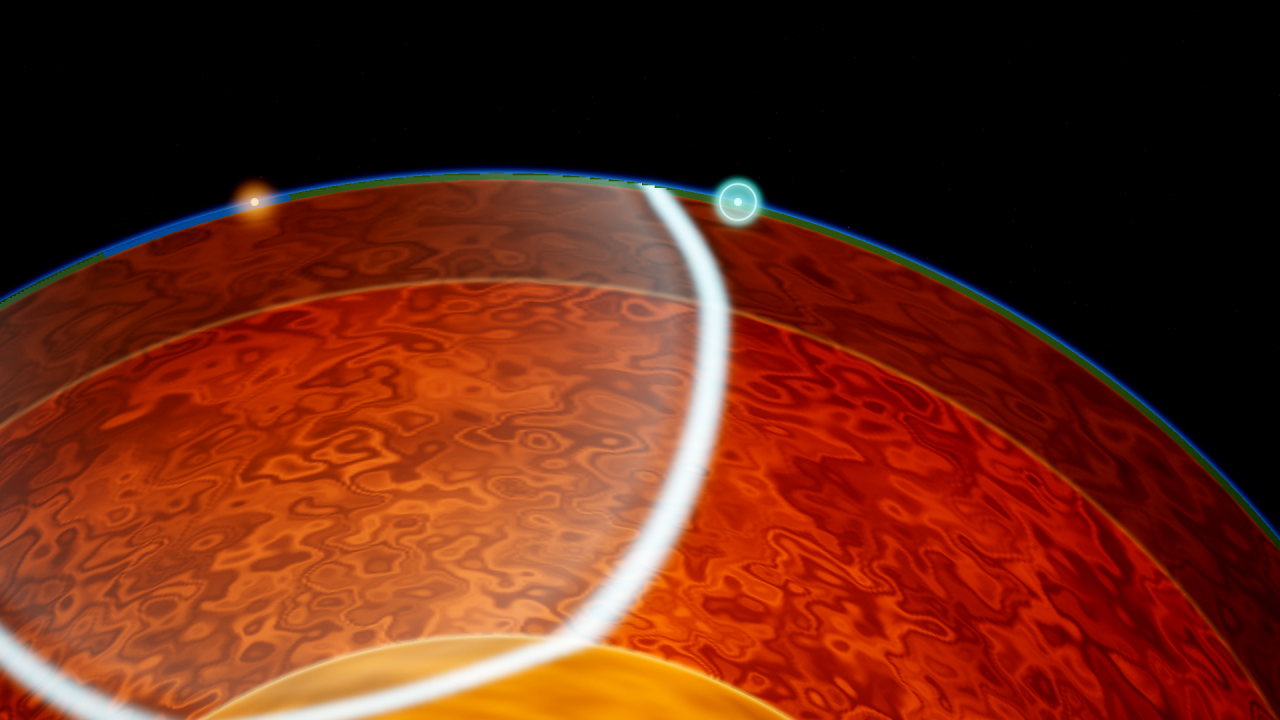
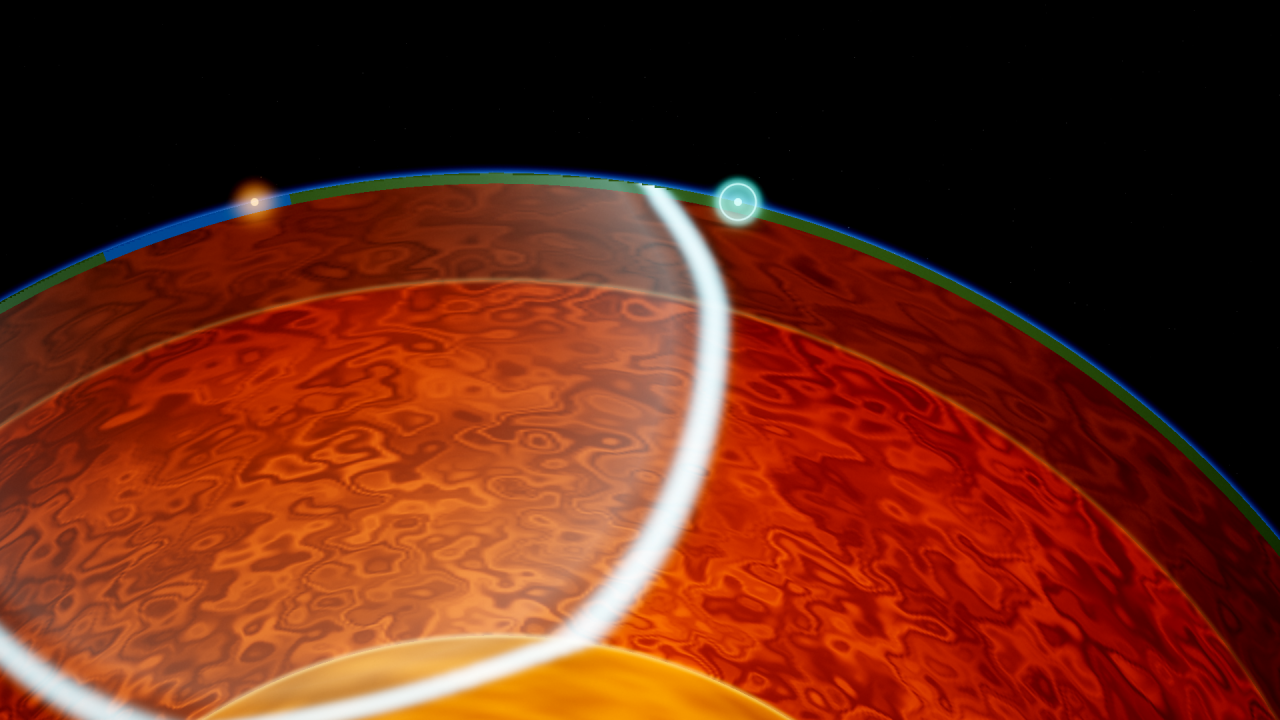
Ep4 thumbnail: true-to-life slit mouth, whole fish in frame; finalize always rebuilds thumbnails
Claude-Session: https://claude.ai/code/session_01M1AiBPig1Bj2yLTmEPiA7A

diff --git a/cinema/ep_tanis/thumb.py b/cinema/ep_tanis/thumb.py
@@ -1,6 +1,6 @@
 """Thumbnails, three different ideas, no text, no numbers:
 A 'over-under'  - split at the waterline: above, the sky over the river full of shooting stars; below, the young
-                  paddlefish, mouth wide open, in water full of glowing glass beads
+                  paddlefish, mouth open in a true-to-life slit, feeding among glowing glass beads
 B 'the ringing' - the planet cut open: a seismic wavefront racing through the glowing mantle toward the river
 C 'the burial'  - the river cut open: fish thrown on the bank, mud and glass filling the channel"""
 import os
@@ -38,7 +38,7 @@ def make(d):
     from engine.core import W, H
     top, kw = riverbank(phase="storm", view_az=(6.0, 6.0), pitch=(16.0, 16.0), fov=(74.0, 74.0), streak=(1.0, 1.0), heat=(0.25, 0.25),
                         glow=(0.0, 0.0), mist=(0.0, 0.0))(_Ctx(), 7.3, 0.5, 0)
-    low, _ = fish_scene(hero=(0.47, 0.47), hero_y=(0.69, 0.69), size=(1450.0, 1450.0), beads=(1.0, 1.0), red=(0.3, 0.3), school=0, gape=1.0, glow_surface=(0.3, 0.3))(_Ctx(), 3.0, 0.5, 0)
+    low, _ = fish_scene(hero=(0.55, 0.55), hero_y=(0.69, 0.69), size=(1250.0, 1250.0), beads=(0.45, 0.45), red=(0.3, 0.3), school=0, gape=1.0, glow_surface=(0.3, 0.3))(_Ctx(), 3.0, 0.5, 0)
     ys = np.arange(H)[:, None]
     wl = H * 0.46 + 10 * np.sin(np.arange(W)[None, :] * 0.01)
     a = np.clip((ys - wl) / 3.0, 0, 1)[..., None]

diff --git a/docs/QUALITY_GATE.md b/docs/QUALITY_GATE.md
@@ -204,3 +204,4 @@ Order of work: script → voice → beats → stills → **mute test** → qa pr
 | A killed render worker must fail loudly, never hang | One chunk worker was killed for memory (6.7 GB) and `multiprocessing.Pool` waited forever, wasting a 2-hour render slot | `render_chunked` uses `ProcessPoolExecutor` (raises `BrokenProcessPool`); each chunk is written to `.part` and renamed when complete, so a rerun skips finished chunks; `run_chunked.sh` retries with 3, then 2, workers at a time |
 | Motion continuity covers smoothed tracks | The engine splits a move into two smooth tracks when beat values don't line up; the first eases to a stop and the second jumps and restarts. The old check skipped all smoothed tracks, so a camera lurch (c2a#8 cx 0 → -300) reached the render and failed the post gate | `qa.py motion_continuity` compares values at every boundary between two different tracks, or a track and a plain range, and flags jumps and two-move ease-stop-restarts. It found 4 more hidden jumps in Ep4 (fish teleport, gill zoom snap, Earth scale pop) |
 | Feeding must read as intake in a still | Converging particle streaks look like a spray going outward; gold glow read as sparks | Feeding particles are pale and unglowed, thin-tailed, and vanish just before the mouth; the mute viewer checks every open-mouth fish beat |
+| Thumbnails always match the current video | Ep4: a thumbnail made two days earlier still showed the old wide-open mouth after it was fixed in the video | `finalize.sh` re-runs `tools/thumbnail.py` from the current scene code on every finalize; thumbnails are never reused from an earlier build |
